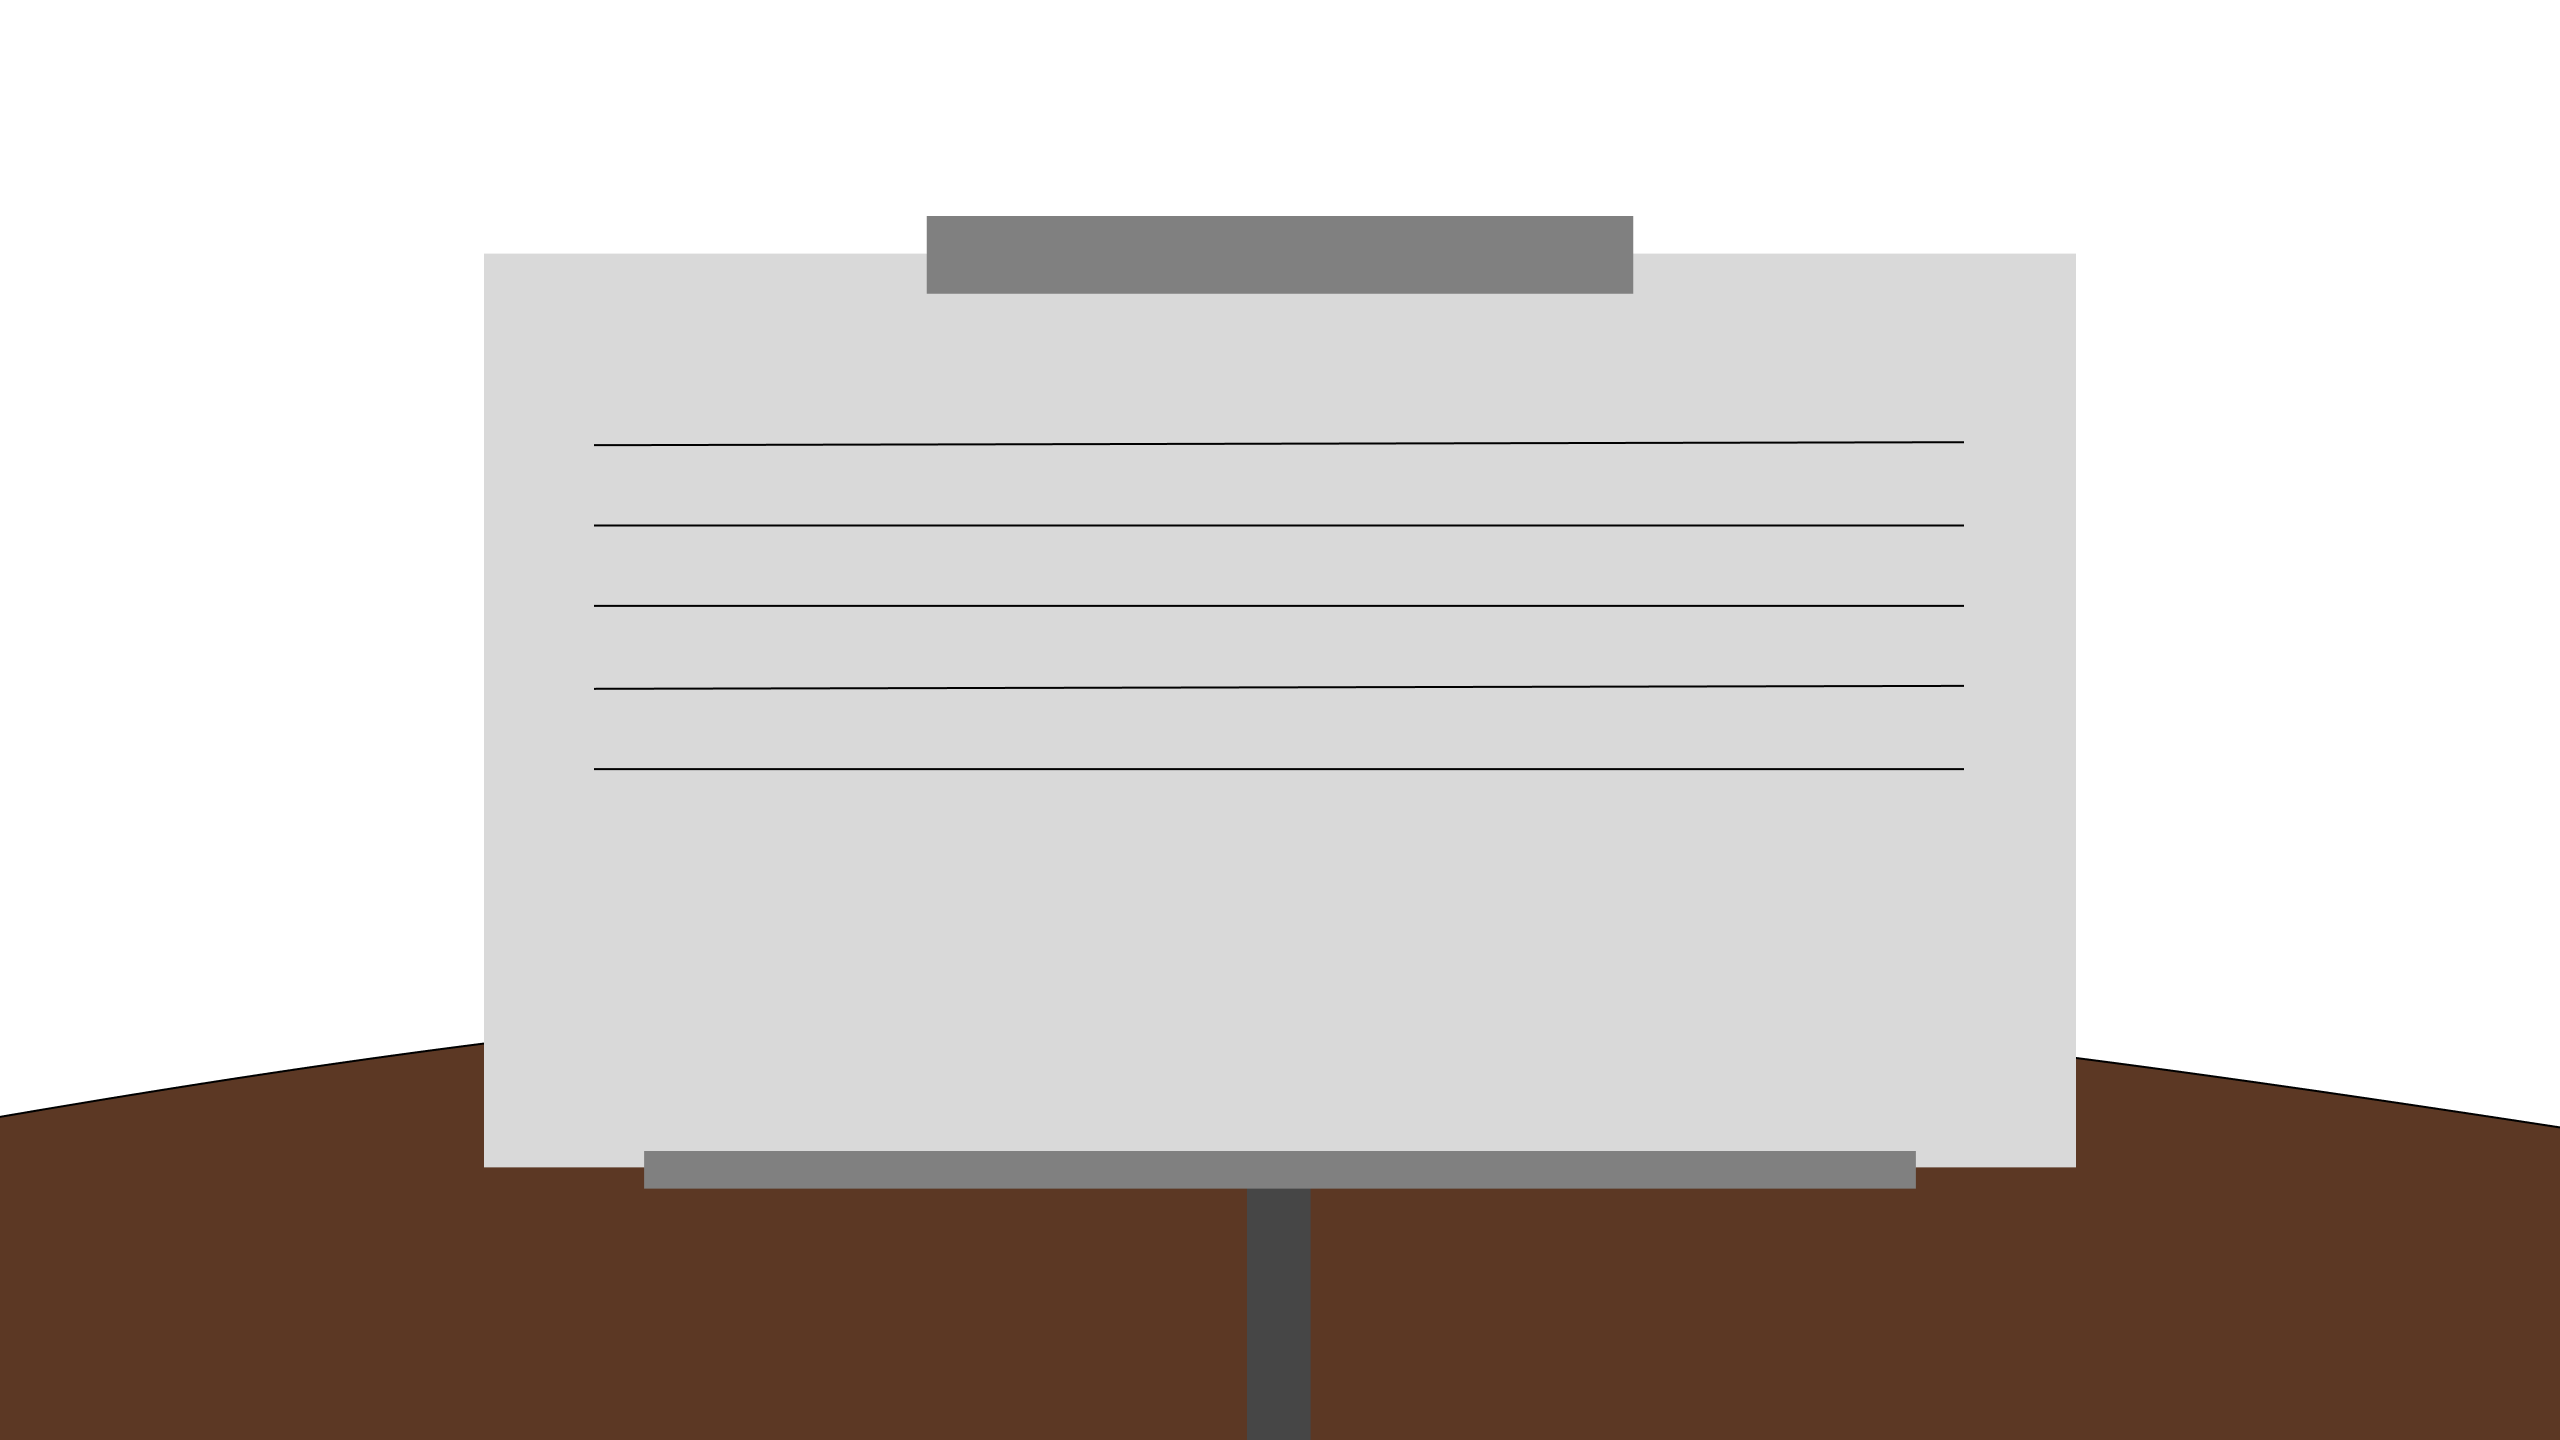
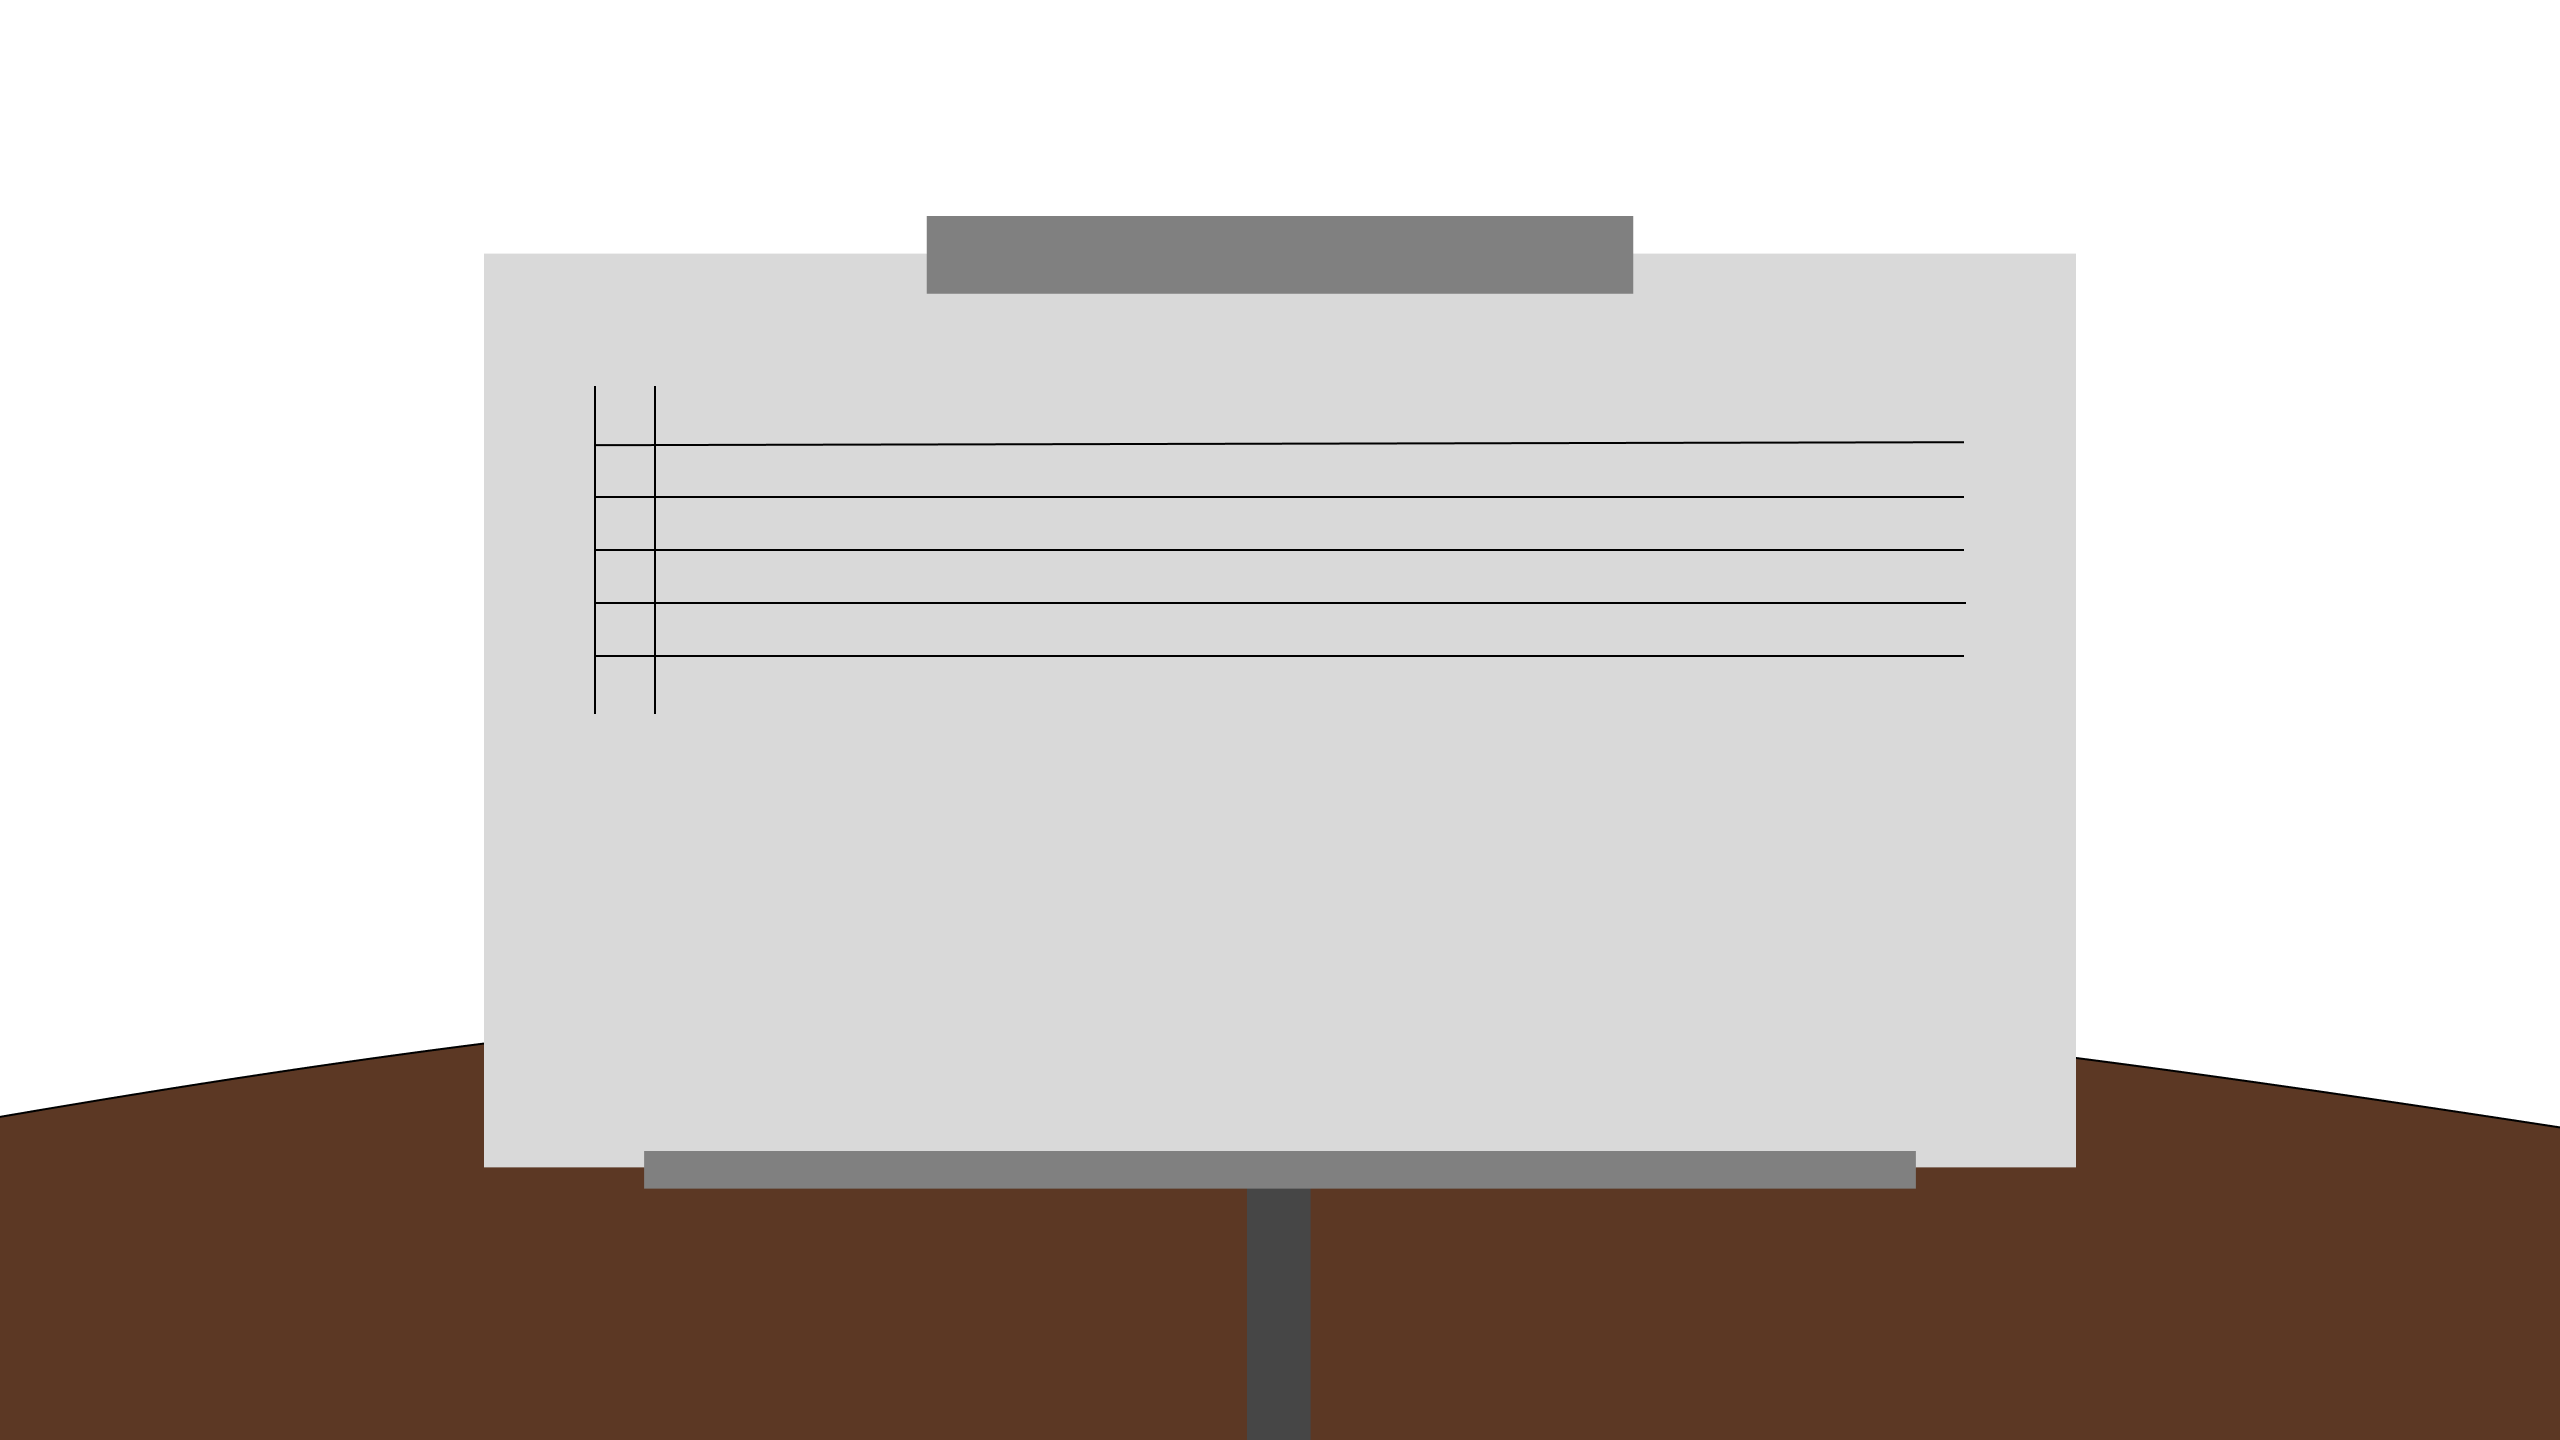
#113 alinhamento das notas no modo gamificado

Changed region(s): [[0.25, 0.4062, 0.75, 0.4375], [0.25, 0.3438, 0.75, 0.375]]

diff --git a/src/app/core/screens/gamificada/game/scenes/Game.scene.ts b/src/app/core/screens/gamificada/game/scenes/Game.scene.ts
@@ -28,9 +28,9 @@ export class GameScene extends Phaser.Scene {
 
     public preload() {
         this.add.image(0, 0, 'background').setOrigin(0, 0);
-        this.limit = this.add.rectangle(255, 127, 2, 457).setOrigin(0,0);
-        this.pressArea = this.add.rectangle(287, 127, 60, 457).setOrigin(0,0);
-        this.wrongPressArea = this.add.rectangle(347, 127, 80, 457).setOrigin(0,0);
+        this.limit = this.add.rectangle(265, 127, 2, 457).setOrigin(0,0);
+        this.pressArea = this.add.rectangle(297, 127, 30, 457).setOrigin(0,0);
+        this.wrongPressArea = this.add.rectangle(327, 127, 80, 457).setOrigin(0,0);
         this.physics.add.existing(this.limit, true);
         this.physics.add.existing(this.pressArea, true);
         this.physics.add.existing(this.wrongPressArea, true);
@@ -144,16 +144,17 @@ export class GameScene extends Phaser.Scene {
 
     public createNote(row: number, isBmol: boolean): void {
         if( row === -1 ) return;
-        const y = 220 + row * 20;
-        const s = 0.5;
+        const y = 226 + (row * 13);
+        const x = 400;
+        const s = 0.2;
         try{
             if(isBmol) {
-                const note = this.physics.add.sprite(980, y+5, 'bmolNote');
-                note.setVelocityX(-100*s).setOrigin(1, 1).setSize(42, 36).setOffset(7, 5);
+                const note = this.physics.add.sprite(x, y, 'bmolNote');
+                note.setVelocityX(-100*s).setOrigin(1, 1).setSize(35, 28).setDisplaySize(35, 32).setOffset(10, 5);
                 this.notes.push(note);
             } else {
-                const note = this.physics.add.sprite(980, y, 'note')
-                note.setVelocityX(-100*s).setOrigin(1, 1);
+                const note = this.physics.add.sprite(x, y, 'note');
+                note.setVelocityX(-100*s).setOrigin(1, 1).setSize(35, 28).setDisplaySize(35, 32);
                 this.notes.push(note);
             }
         } catch(error) { }
